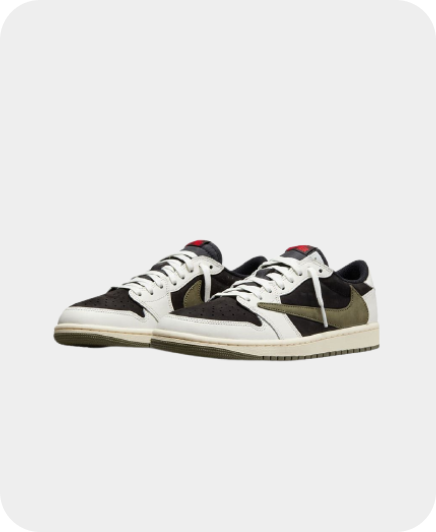
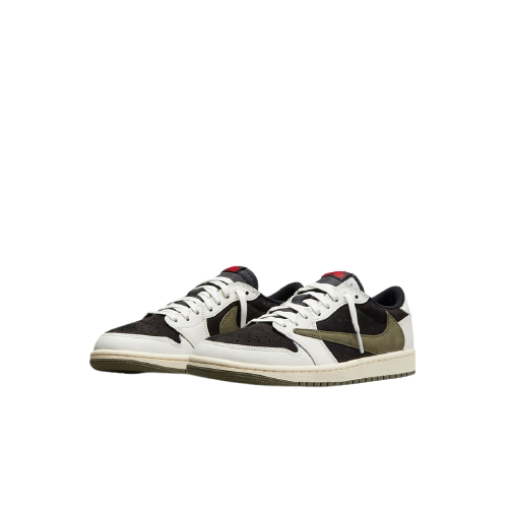
changing the items images for a better ui experience

Changed region(s): [[0.1193, 0.4429, 0.8945, 0.7677]]

diff --git a/shopora-frontend/src/data/catalogue.ts b/shopora-frontend/src/data/catalogue.ts
@@ -1,6 +1,19 @@
 import headphones from "../images/headphones.png";
 import tShirt from "../images/t-shirt.png";
 import shoes from "../images/shoes.png";
+import tShirtTwo from "../images/t-shirt2.png";
+import tShirtThree from "../images/t-shirt3.png";
+import tShirtFour from "../images/t-shirt4.png";
+import tShirtFive from "../images/t-shirt5.png";
+import headphonesTwo from "../images/headphones2.png";
+import headphonesThree from "../images/headphones3.png";
+import headphonesFour from "../images/headphones4.png";
+import headphonesFive from "../images/headphones5.png";
+import shoesTwo from "../images/shoes2.png";
+import shoesThree from "../images/shoes3.png";
+import shoesFour from "../images/shoes4.png";
+import shoesFive from "../images/shoes5.png";
+
 
 export interface CatalogueReview {
     reviewer: string;
@@ -39,7 +52,7 @@ export const catalogue: CatalogueItem[] = [
         ]
     },
     {
-        image: headphones,
+        image: headphonesTwo,
         name: "Echo",
         namee: "Noise Cancelling",
         price: "$229",
@@ -54,7 +67,7 @@ export const catalogue: CatalogueItem[] = [
         ]
     },
     {
-        image: headphones,
+        image: headphonesThree,
         name: "Pulse",
         namee: "Studio Pods",
         price: "$259",
@@ -68,7 +81,7 @@ export const catalogue: CatalogueItem[] = [
         ]
     },
     {
-        image: headphones,
+        image: headphonesFour,
         name: "Drift",
         namee: "Travel Earbuds",
         price: "$149",
@@ -82,7 +95,7 @@ export const catalogue: CatalogueItem[] = [
         ]
     },
     {
-        image: headphones,
+        image: headphonesFive,
         name: "Nova",
         namee: "Gaming Headset",
         price: "$189",
@@ -112,7 +125,7 @@ export const catalogue: CatalogueItem[] = [
         ]
     },
     {
-        image: tShirt,
+        image: tShirtTwo,
         name: "Cedar",
         namee: "Oversized Tee",
         price: "$249",
@@ -126,7 +139,7 @@ export const catalogue: CatalogueItem[] = [
         ]
     },
     {
-        image: tShirt,
+        image: tShirtThree,
         name: "Sprint",
         namee: "Performance Tee",
         price: "$199",
@@ -140,7 +153,7 @@ export const catalogue: CatalogueItem[] = [
         ]
     },
     {
-        image: tShirt,
+        image: tShirtFour,
         name: "Muse",
         namee: "Graphic Tee",
         price: "$179",
@@ -154,7 +167,7 @@ export const catalogue: CatalogueItem[] = [
         ]
     },
     {
-        image: tShirt,
+        image: tShirtFive,
         name: "Solstice",
         namee: "Ribbed Tee",
         price: "$209",
@@ -184,7 +197,7 @@ export const catalogue: CatalogueItem[] = [
         ]
     },
     {
-        image: shoes,
+        image: shoesTwo,
         name: "Orbit",
         namee: "Trail Runner",
         price: "$359",
@@ -198,7 +211,7 @@ export const catalogue: CatalogueItem[] = [
         ]
     },
     {
-        image: shoes,
+        image: shoesThree,
         name: "Prime",
         namee: "Court Sneaker",
         price: "$279",
@@ -212,7 +225,7 @@ export const catalogue: CatalogueItem[] = [
         ]
     },
     {
-        image: shoes,
+        image: shoesFour,
         name: "Comet",
         namee: "Daily Trainer",
         price: "$219",
@@ -226,7 +239,7 @@ export const catalogue: CatalogueItem[] = [
         ]
     },
     {
-        image: shoes,
+        image: shoesFive,
         name: "Volt",
         namee: "High-top",
         price: "$329",
